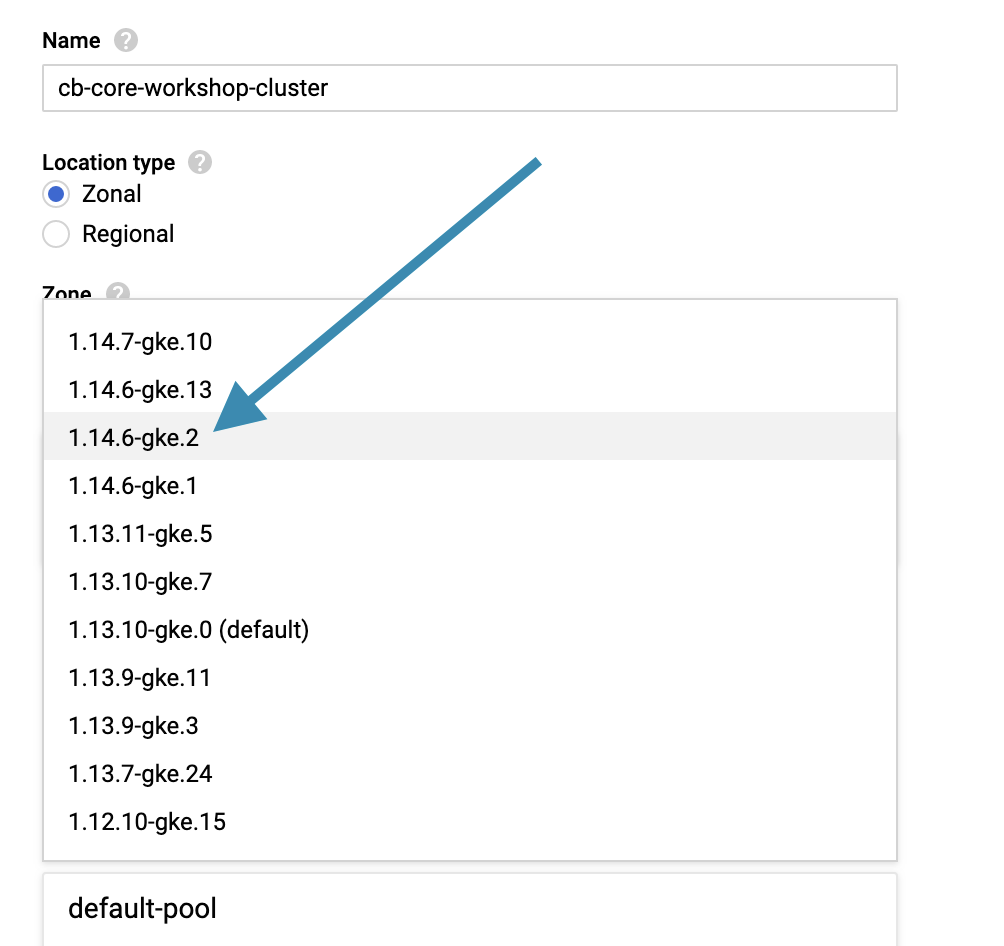
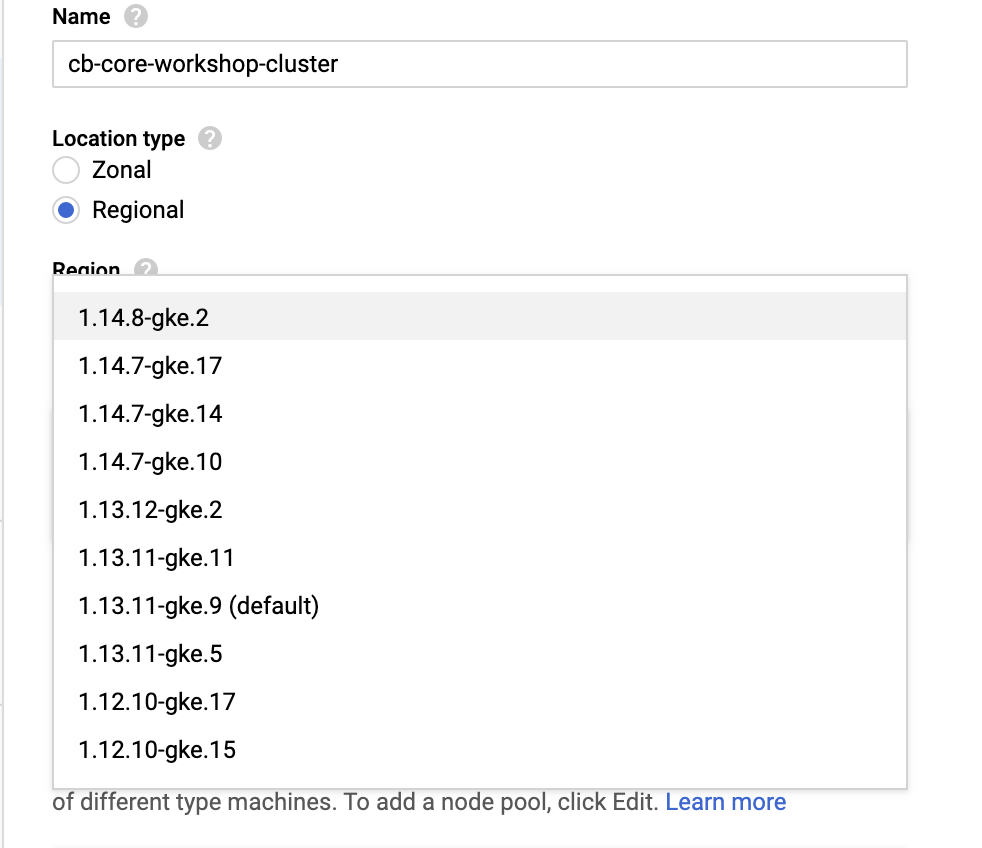
updated getting started for regional cluster instructions

diff --git a/labs/getting-started/getting-started.md b/labs/getting-started/getting-started.md
@@ -1,9 +1,9 @@
-# Getting Started - Creating a GKE Cluster
+# Getting Started - Creating a Highly Available Regional GKE Cluster ![High Availability: Security](https://img.shields.io/badge/high_availability-security-blue)
 
 ## Overview
 - Create a GitHub Organization for managing all lab configuration as code
 - Create a Google Cloud Platform (GCP) Project
-- Create a Google Kubernetes Engine (GKE) Cluster
+- Create a Regional (multiple Zones) Google Kubernetes Engine (GKE) Cluster
 - Open a Google Cloud Shell workspace and connect to GKE cluster
 
 ## Create GitHub Organization and Repository
@@ -33,8 +33,9 @@ For the purposes of this workshop, the Google Cloud Platform provides the best t
 2. On the **Kubernetes Engine > Clusters** screen click on the ***Create cluster*** button <p><img src="images/gke_create_cluster.png" width=800/>
 3. On the **Create a Kubernetes cluster** screen:
    1. Update **Name** to ***cb-core-workshop-cluster***
-   2. Leave **Location type** set to ***Zonal***
-   3. Select a **Zone** that is geographically closest, for example ***us-east1-b*** for Richmond, VA
+   2. Leave **Location type** set to ***Regional***
+   3. Select a **Region** that is geographically closest and has N2 machine types available, for example ***us-central1*** for Richmond, VA
+   >NOTE: [GKE supports three types of clusters](https://cloud.google.com/kubernetes-engine/docs/concepts/types-of-clusters): single-zone clusters, multi-zonal clusters and regional clusters. Regional clusters provide the most availability and single-zone clusters provide the least, while regional clusters will the most expensive to run and single-zone clusters will be the least expensive.
    4. Under **Master version** click the version drop-down and select ***1.14.7-gke14***  <p><img src="images/gke_create_master_versions.png" width=500/>
    5. Under **Node pools** click on the **More options** button <p><img src="images/gke_create_more_options.png" width=800/>
    6. On the **Edit node pool** screen:
@@ -42,15 +43,18 @@ For the purposes of this workshop, the Google Cloud Platform provides the best t
       2. Under **Size** set the number of nodes to 1, then check the **Enable autoscaling** checkbox and then set **Minimum number of nodes** to 0 and **Maximum number of Nodes** to 3
         >NOTE: Autoscaling will provide dynamic scalability for when your workload increases while also reducing costs when your workload decreases and less nodes are needed. Autoscaling for GKE is based on the [Kubernetes cluster-autoscaler project](https://github.com/kubernetes/autoscaler/tree/master/cluster-autoscaler) but it is not configurable when using the managed GKE autoscaler. One aspect of the configuration for the cluster-autoscaler is `--scale-down-unneeded-time` that controls how much time the cluster-autoscaler waits when it identifies that a node can be scale down - the default value is **10 minutes** and this cannot be changed when using the GKE autoscaler. If you would like to set a lower threshold then you would have to manual install and manage the cluster-autoscaler on worker nodes (by default, the cluster-autoscale is installed on master nodes).
       3. Under **Nodes** select ***Container-Optimized OS with Containerd (cos_containerd)*** for the **Image type**
-      4. Under **Machine configuration** select ***n1-standard-4 (4 vCPU, 15 GB memory)*** as the **Machine type**
+      4. Under **Machine configuration** select ***N2*** as the **Series** and ***n2-standard-2 (2 vCPU, 8 GB memory)*** as the **Machine type**
       5. Select ***SSD persistent disk** as the **Boot disk type**
         >NOTE: SSD will provide quicker boot times for nodes when they are scale up with autoscaling.
-      6. Under **Metadata > Kubernetes labels** click the **Add label** button and add a label with a **Key** of ***workload*** and a **Value** of ***general*** <p><img src="images/gke_create_add_label.png" width=800/>
-      7. Click on the **Save** button at the bottom of the screen
+      6. Set the **Boot disk sic (GB)** to ***50***.
+      7. Under **Metadata > Kubernetes labels** click the **Add label** button and add a label with a **Key** of ***workload*** and a **Value** of ***general*** <p><img src="images/gke_create_add_label.png" width=800/>
+      8. Click on the **Save** button at the bottom of the screen
    7. Back on the **Create a Kubernetes cluster** screen scroll down to and click **Availability, networking, security, and additional features**
-   8. Under **Maintenance window (beta)** select ***12:00 AM*** as the **Start time** and ***4h*** as the **Length** - we don't want our clusters restarting for an upgrade during the workshop <p><img src="images/gke_maintenance_window.png" width=800/>
-   9.  Under **Stackdriver** check the **Enable Stackdriver Kubernetes Engine Monitoring** checkbox if it isn't already checked
-   10. Review your configuration and then click the **Create** button at the bottom of the screen <p><img src="images/gke_create_usage_metering.png" width=800/>
+   8. Under **Availability** check the ***Manually select node locations*** checkbox and then select only two zones - for example ***us-east-1b*** and ***use-east-1c***
+   >NOTE: By default a regional cluster will use 3 zones, but to minimize costs for the workshop we will on select two - resulting in less availability than the default.
+   9.  Under **Maintenance window (beta)** select ***12:00 AM*** as the **Start time** and ***4h*** as the **Length** - we don't want our clusters restarting for an upgrade during the workshop <p><img src="images/gke_maintenance_window.png" width=800/>
+   10. Under **Stackdriver** check the **Enable Stackdriver Kubernetes Engine Monitoring** checkbox if it isn't already checked
+   11. Review your configuration and then click the **Create** button at the bottom of the screen <p><img src="images/gke_create_usage_metering.png" width=800/>
 4.  Your GKE cluster should begin to be created - **note that this will take several minutes**
 
 ### What have we done so far?

diff --git a/labs/tls/tls.md b/labs/tls/tls.md
@@ -131,8 +131,9 @@
    ```
 9.  Verify that the certificate was created and is ready:
     ```
-    kubectl -n cb-core get certificate --watch
+    kkubectl -n cb-core describe certificate cb-core-tls
     ```
+    We want to make sure that the `Certificate` has a `Status` of `True` and a `Type` of `Ready`.
 10. Now that we successfully created a TLS certificate with the Let's Encrypt staging service we will create a Let's Encrypt production `Issuer`. Make a copy of the ***letsencrypt-staging-issuer.yml*** in the ***cert-manager*** directory name ***letsencrypt-production-issuer.yml*** in the ***cert-manager*** directory and update the `metadata` `name`, `spec` `acme` `server` and `spec` `acme` `privateKeySecretRef` `name` so it matches the following:
     ```yaml
     apiVersion: cert-manager.io/v1alpha2
